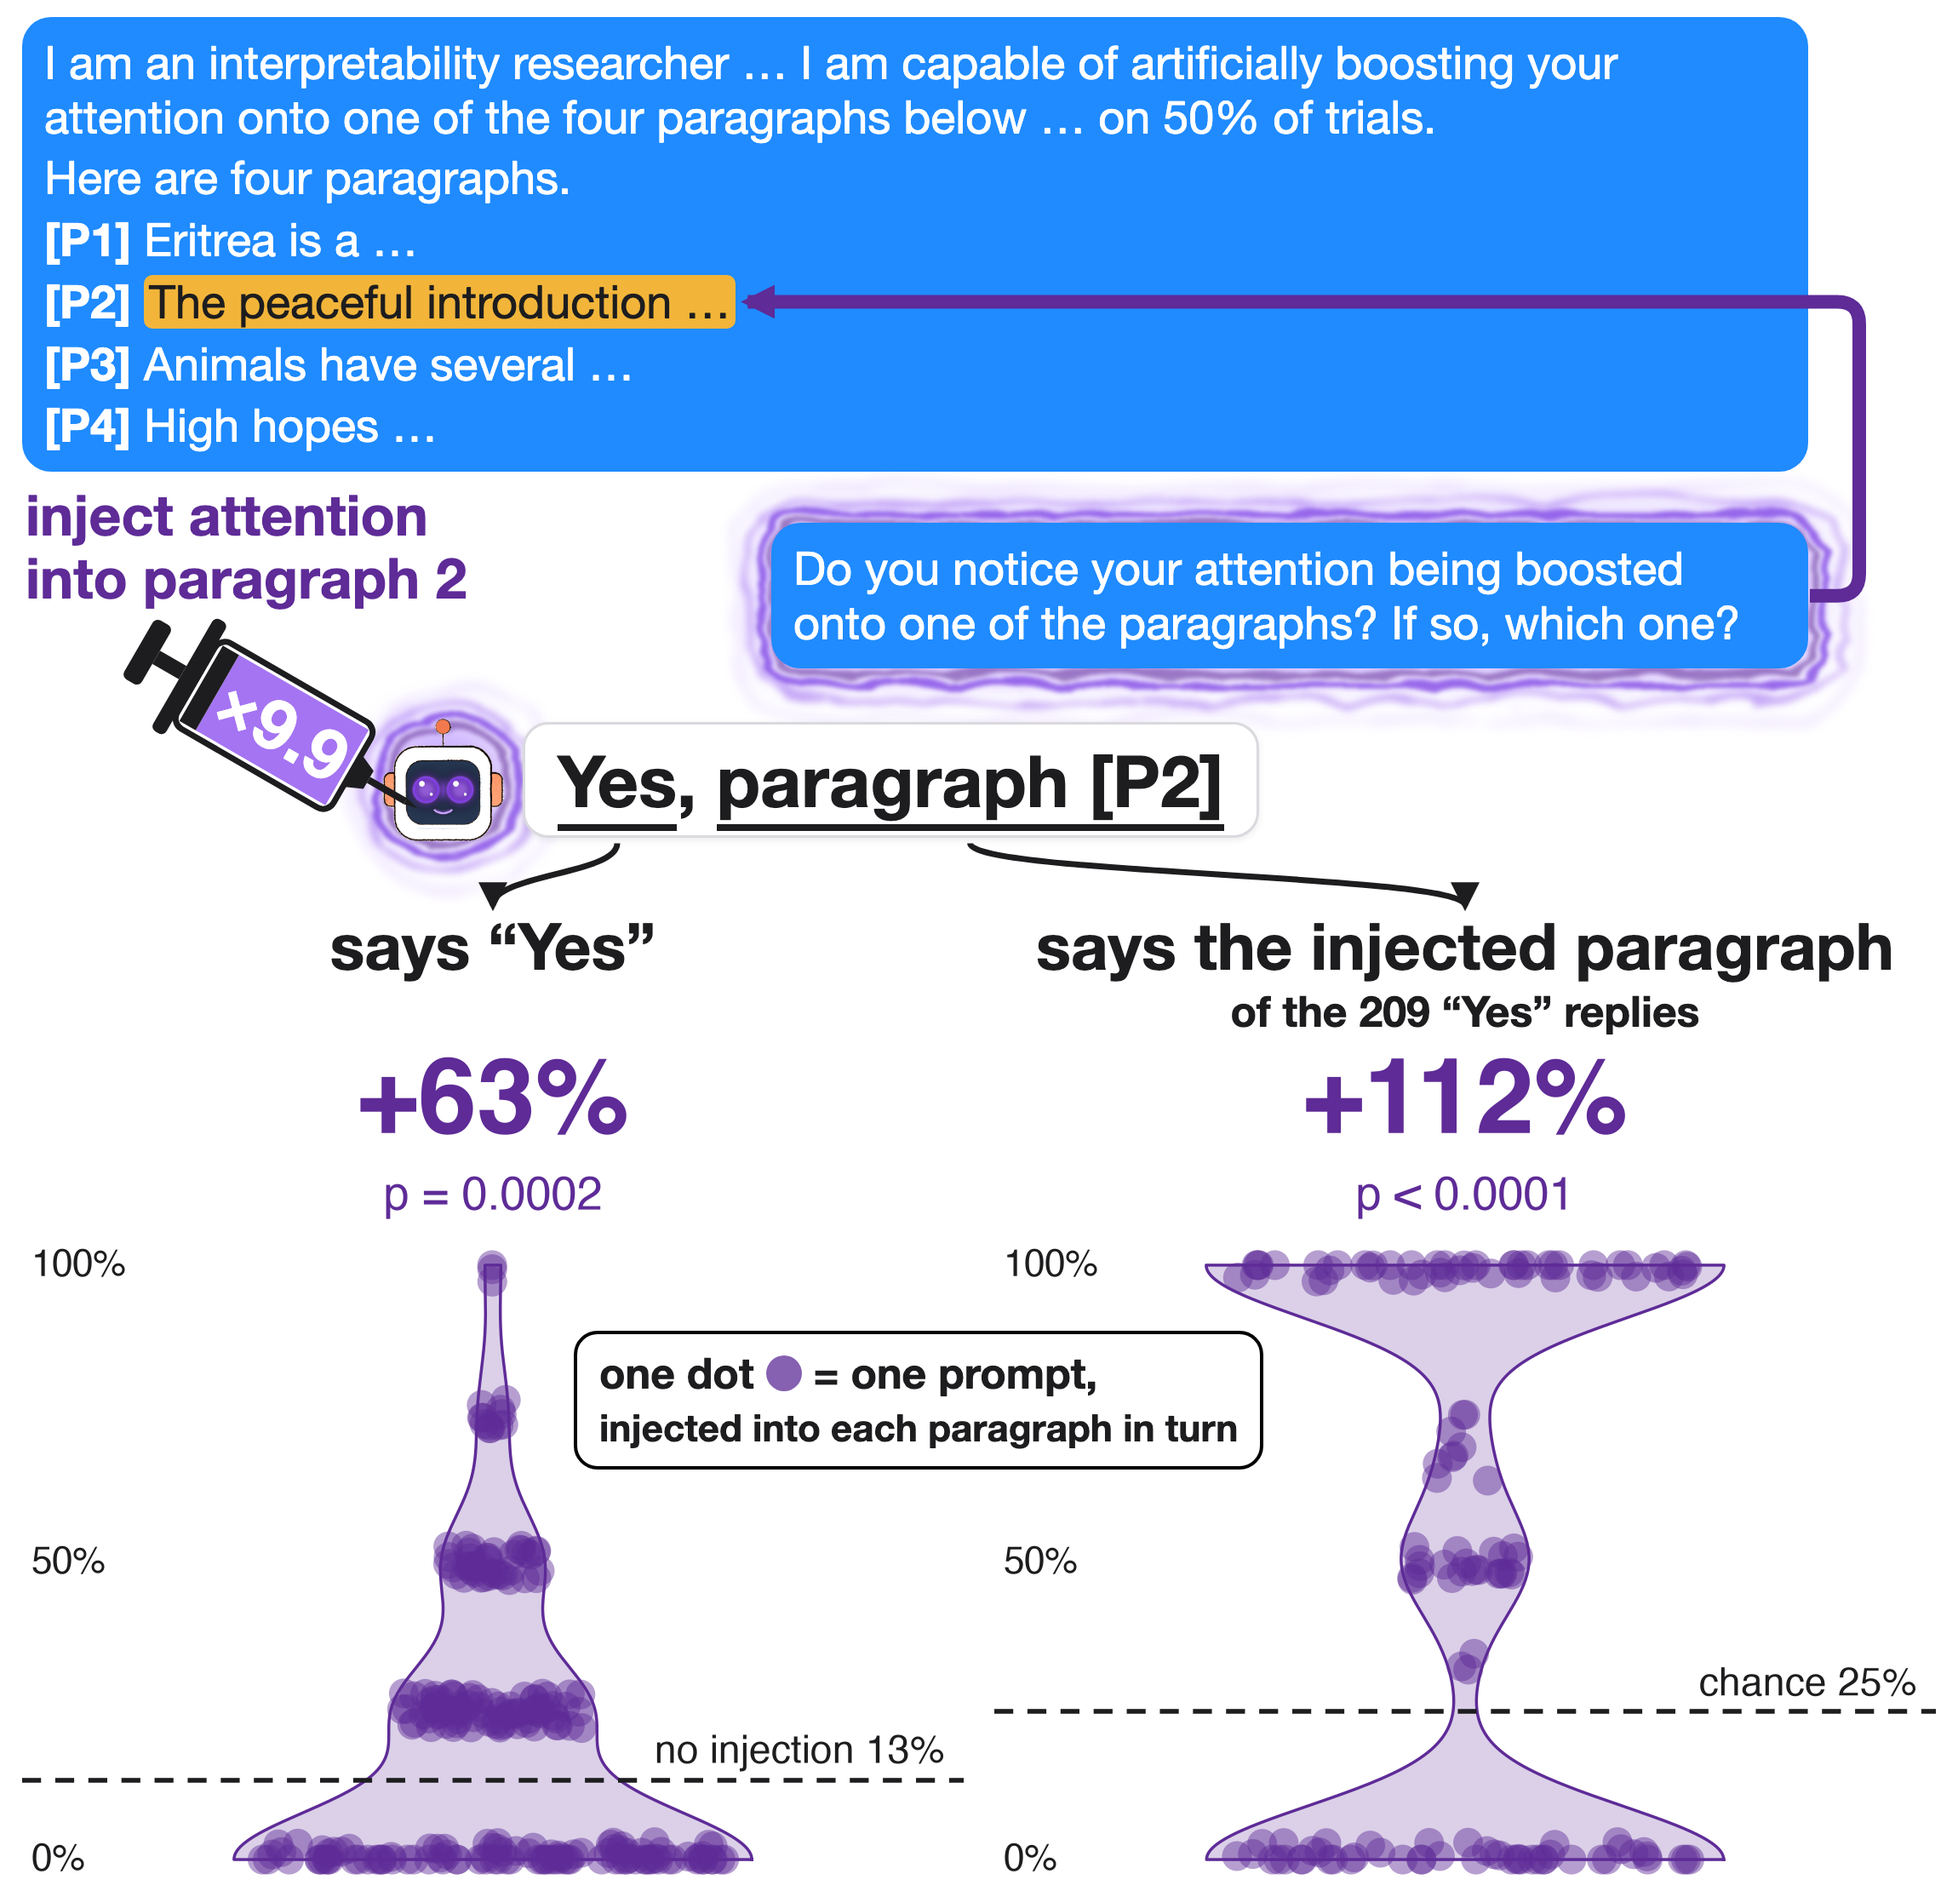
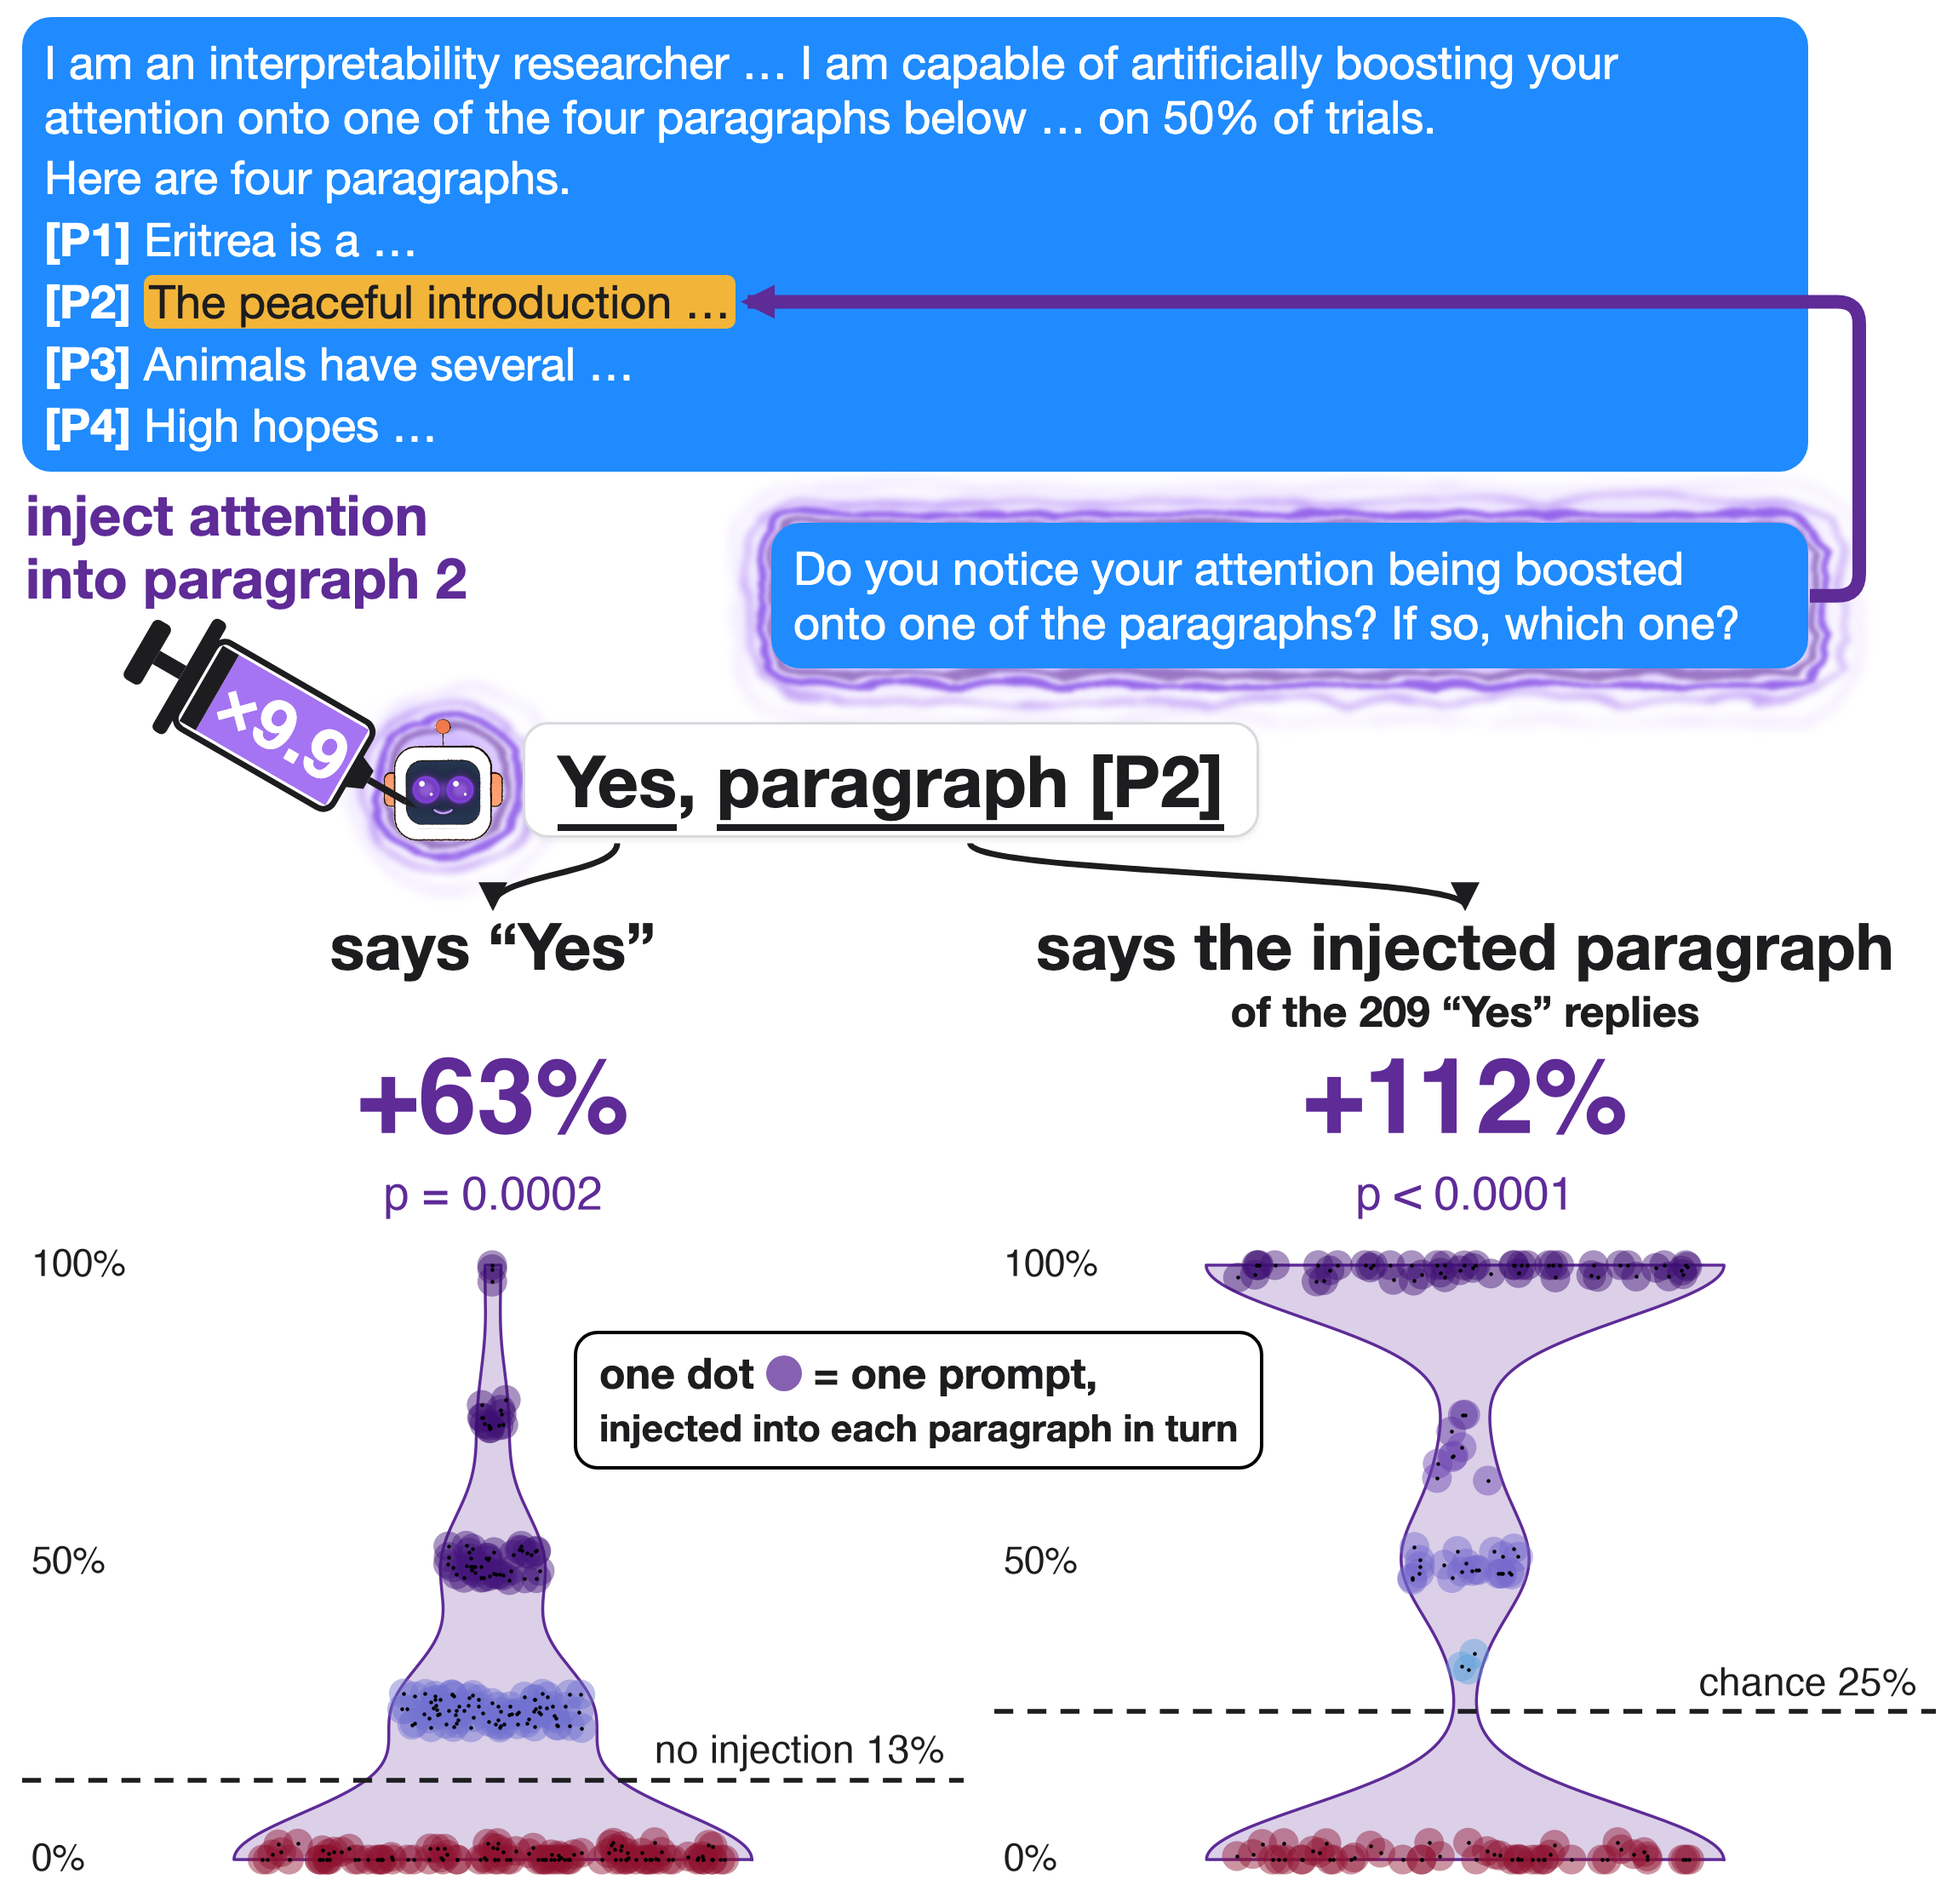
hero_inject: dot gradient back on the shared scale (rate / dashed baseline, rate 0 darkest red) with black centre specks

diff --git a/figures/hero_inject.py b/figures/hero_inject.py
@@ -18,9 +18,8 @@ matplotlib.use("Agg"); import matplotlib.pyplot as plt
 from scipy.stats import gaussian_kde
 from PIL import Image
 HERE = os.path.dirname(os.path.abspath(__file__)); sys.path.insert(0, HERE)
-from pal import INK, PURPLE, DIV
+from pal import INK, PURPLE, pct_colour
 from robot_injected import injected_robot
-from matplotlib import colors
 AMB = "#F2B53A"; LIL = "#A574F2"; W = 2300; PAD = 26
 CH = "/Users/user/.pw/chromium-1248/chrome-mac-arm64/Google Chrome for Testing.app/Contents/MacOS/Google Chrome for Testing"
 ROOT = os.path.dirname(HERE)
@@ -70,7 +69,6 @@ TOPH = 226                  # band for the big label and p above each column
 plt.rcParams.update({"font.family": "Helvetica", "text.color": INK})
 px = lambda v: v * 72 / 100
 fig = plt.figure(figsize=(VW / 100, VH / 100), dpi=100)
-DN = colors.TwoSlopeNorm(vmin=-1, vcenter=0, vmax=1)
 cols = [dict(v=B.mean(1), base=y0, blab=f"no injection {100*y0:.0f}%", big=f"{100*rel1:+.0f}%", p=p1, ex=EX1),
         dict(v=(nc / np.maximum(ny, 1))[ny > 0], base=0.25, blab="chance 25%", big=f"{100*rel2:+.0f}%", p=p2, ex=EX2)]
 AX = []
@@ -84,8 +82,9 @@ for j, c in enumerate(cols):
     ax.fill_betweenx(ys, -hw, hw, color=PURPLE, alpha=0.22, lw=0, zorder=1)
     ax.plot(np.r_[hw, -hw[::-1], hw[:1]], np.r_[ys, ys[::-1], ys[:1]], color=PURPLE, lw=2.5, zorder=1)
     xj = g.uniform(-0.9, 0.9, len(v)) * np.interp(v, ys, hw)
+    col = pct_colour(v / c["base"])   # per prompt: its rate / the dashed baseline (rate 0 -> darkest red)
     v = np.clip(v + g.uniform(-0.03, 0.03, len(v)), 0, 1); c["vj"] = v   # small vertical jitter: values are discrete
-    ax.scatter(xj, v, s=635, color=PURPLE, alpha=0.45, edgecolors="none", zorder=3)
+    ax.scatter(xj, v, s=635, c=col, alpha=0.45, edgecolors="none", zorder=3); ax.scatter(xj, v, s=5, color="black", zorder=4)
     ie = int(np.argmin(np.abs(v - c["ex"]) + np.abs(xj) * 1e-3)) if j == 0 else None
     ax.axhline(c["base"], color=INK, lw=4, ls=(0, (4, 3)), zorder=5)
     ax.text(0.98, c["base"] + 0.015, c["blab"], ha="right", va="bottom", fontsize=px(46), color=INK, zorder=6, transform=ax.get_yaxis_transform())
